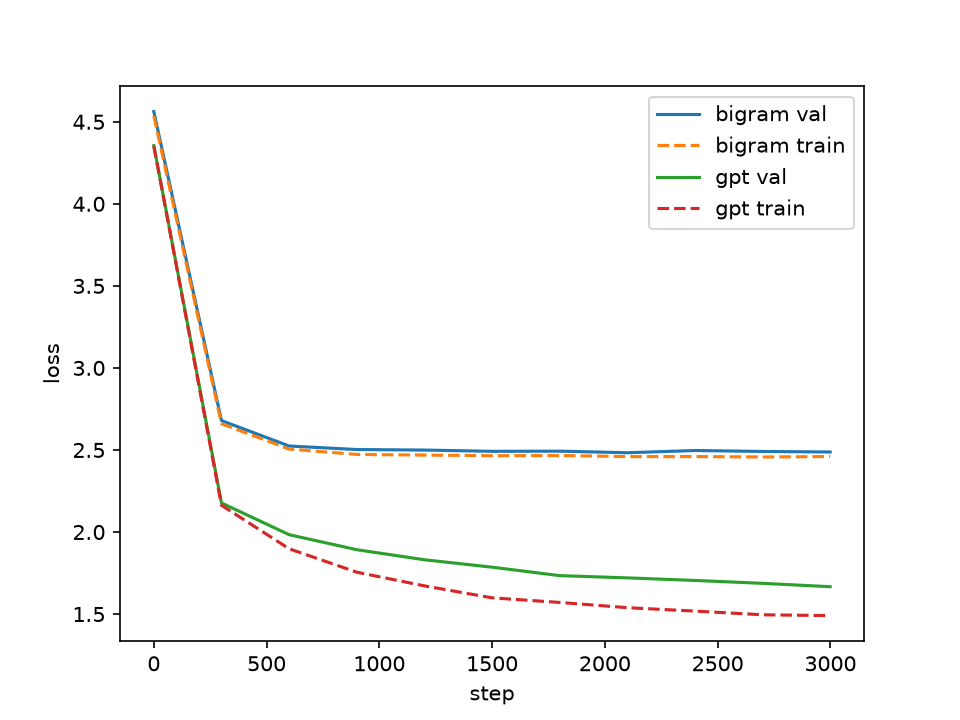
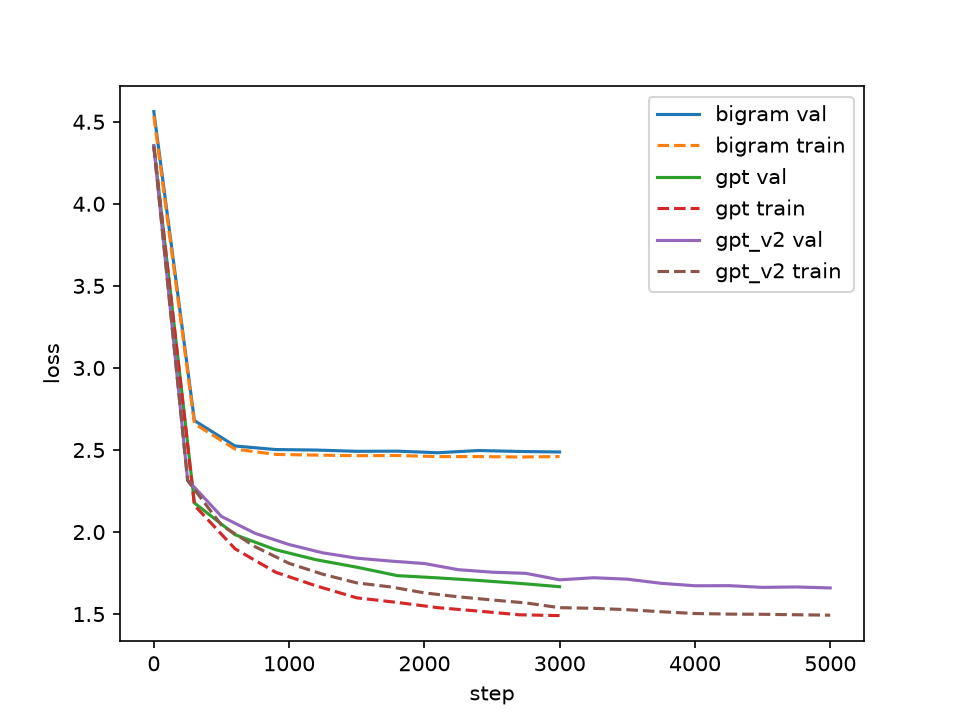
v2: lr schedule, weight decay, dropout 0.2, 5000 steps

diff --git a/src/train.py b/src/train.py
@@ -1,3 +1,4 @@
+import math
 import torch
 import matplotlib.pyplot as plt
 
@@ -7,23 +8,35 @@ from model import BigramModel
 torch.manual_seed(0)
 
 MODEL = "gpt"  # "bigram" or "gpt"
+TAG = "gpt_v2"  # name for the result files
 block_size = 64
 batch_size = 32
-max_steps = 3000
-eval_every = 300
+max_steps = 5000
+eval_every = 250
 eval_iters = 50
+n_embd, n_head, n_layer = 128, 4, 4
+dropout = 0.2
 lr = 1e-2 if MODEL == "bigram" else 1e-3
+warmup = 100
 device = "cuda" if torch.cuda.is_available() else "cpu"
 
 if MODEL == "bigram":
     model = BigramModel(vocab_size)
 else:
     from model import GPT
-    model = GPT(vocab_size, block_size, n_embd=128, n_head=4, n_layer=4, dropout=0.1)
+    model = GPT(vocab_size, block_size, n_embd, n_head, n_layer, dropout)
 model = model.to(device)
 print(f"{sum(p.numel() for p in model.parameters()) / 1e6:.3f}M parameters")
 
-opt = torch.optim.AdamW(model.parameters(), lr=lr)
+opt = torch.optim.AdamW(model.parameters(), lr=lr, weight_decay=0.1)
+
+
+def get_lr(step):
+    # short warmup, then cosine decay down to 10% of the base lr
+    if step < warmup:
+        return lr * (step + 1) / warmup
+    progress = (step - warmup) / (max_steps - warmup)
+    return lr * (0.1 + 0.9 * 0.5 * (1 + math.cos(math.pi * progress)))
 
 
 @torch.no_grad()
@@ -45,6 +58,8 @@ start = torch.zeros((1, 1), dtype=torch.long, device=device)
 steps_log, train_log, val_log = [], [], []
 
 for step in range(max_steps):
+    for g in opt.param_groups:
+        g["lr"] = get_lr(step)
     if step % eval_every == 0 or step == max_steps - 1:
         l = estimate_loss()
         steps_log.append(step)
@@ -60,7 +75,7 @@ for step in range(max_steps):
     opt.step()
 
 sample = decode(model.generate(start, 1000)[0].tolist())
-with open(f"results/sample_{MODEL}.txt", "w", encoding="utf-8") as f:
+with open(f"results/sample_{TAG}.txt", "w", encoding="utf-8") as f:
     f.write(sample)
 
 plt.plot(steps_log, train_log, label="train")
@@ -68,4 +83,4 @@ plt.plot(steps_log, val_log, label="val")
 plt.xlabel("step")
 plt.ylabel("loss")
 plt.legend()
-plt.savefig(f"results/loss_{MODEL}.png", dpi=150)
+plt.savefig(f"results/loss_{TAG}.png", dpi=150)

diff --git a/src/plots.py b/src/plots.py
@@ -13,7 +13,7 @@ def read_log(path):
     return steps, train, val
 
 
-for name in ["bigram", "gpt"]:
+for name in ["bigram", "gpt", "gpt_v2"]:
     steps, train, val = read_log(f"results/{name}.txt")
     plt.plot(steps, val, label=f"{name} val")
     plt.plot(steps, train, "--", label=f"{name} train")
